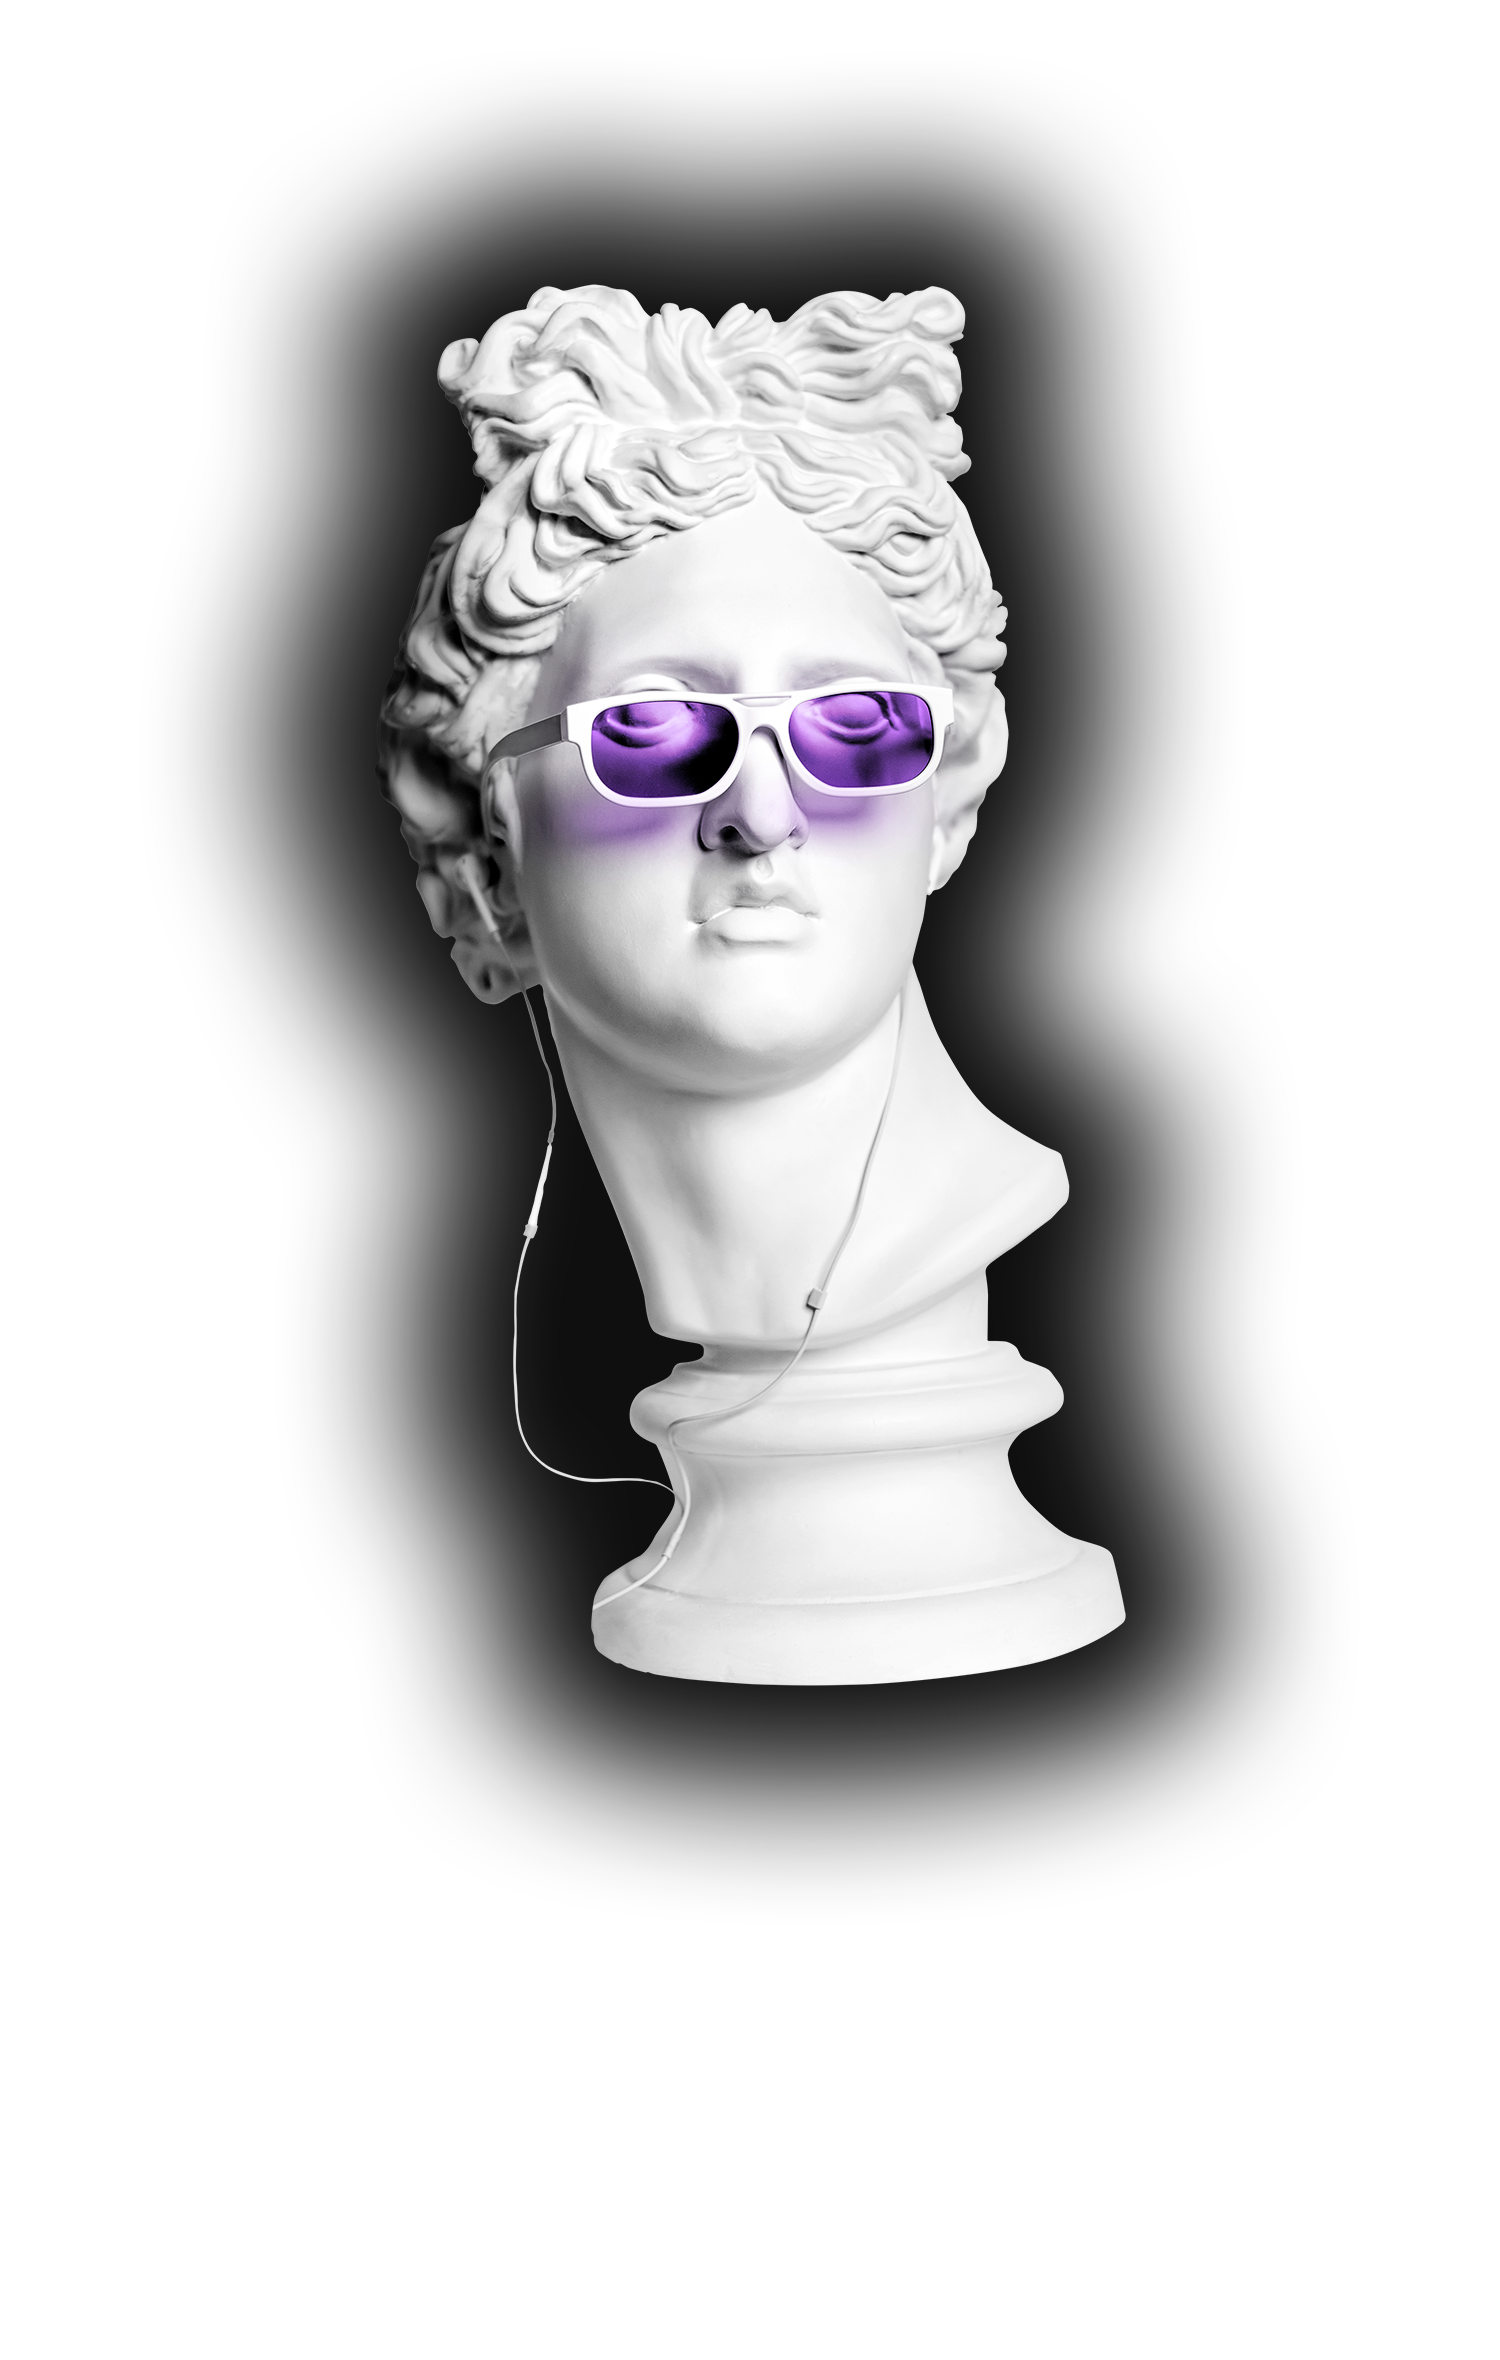
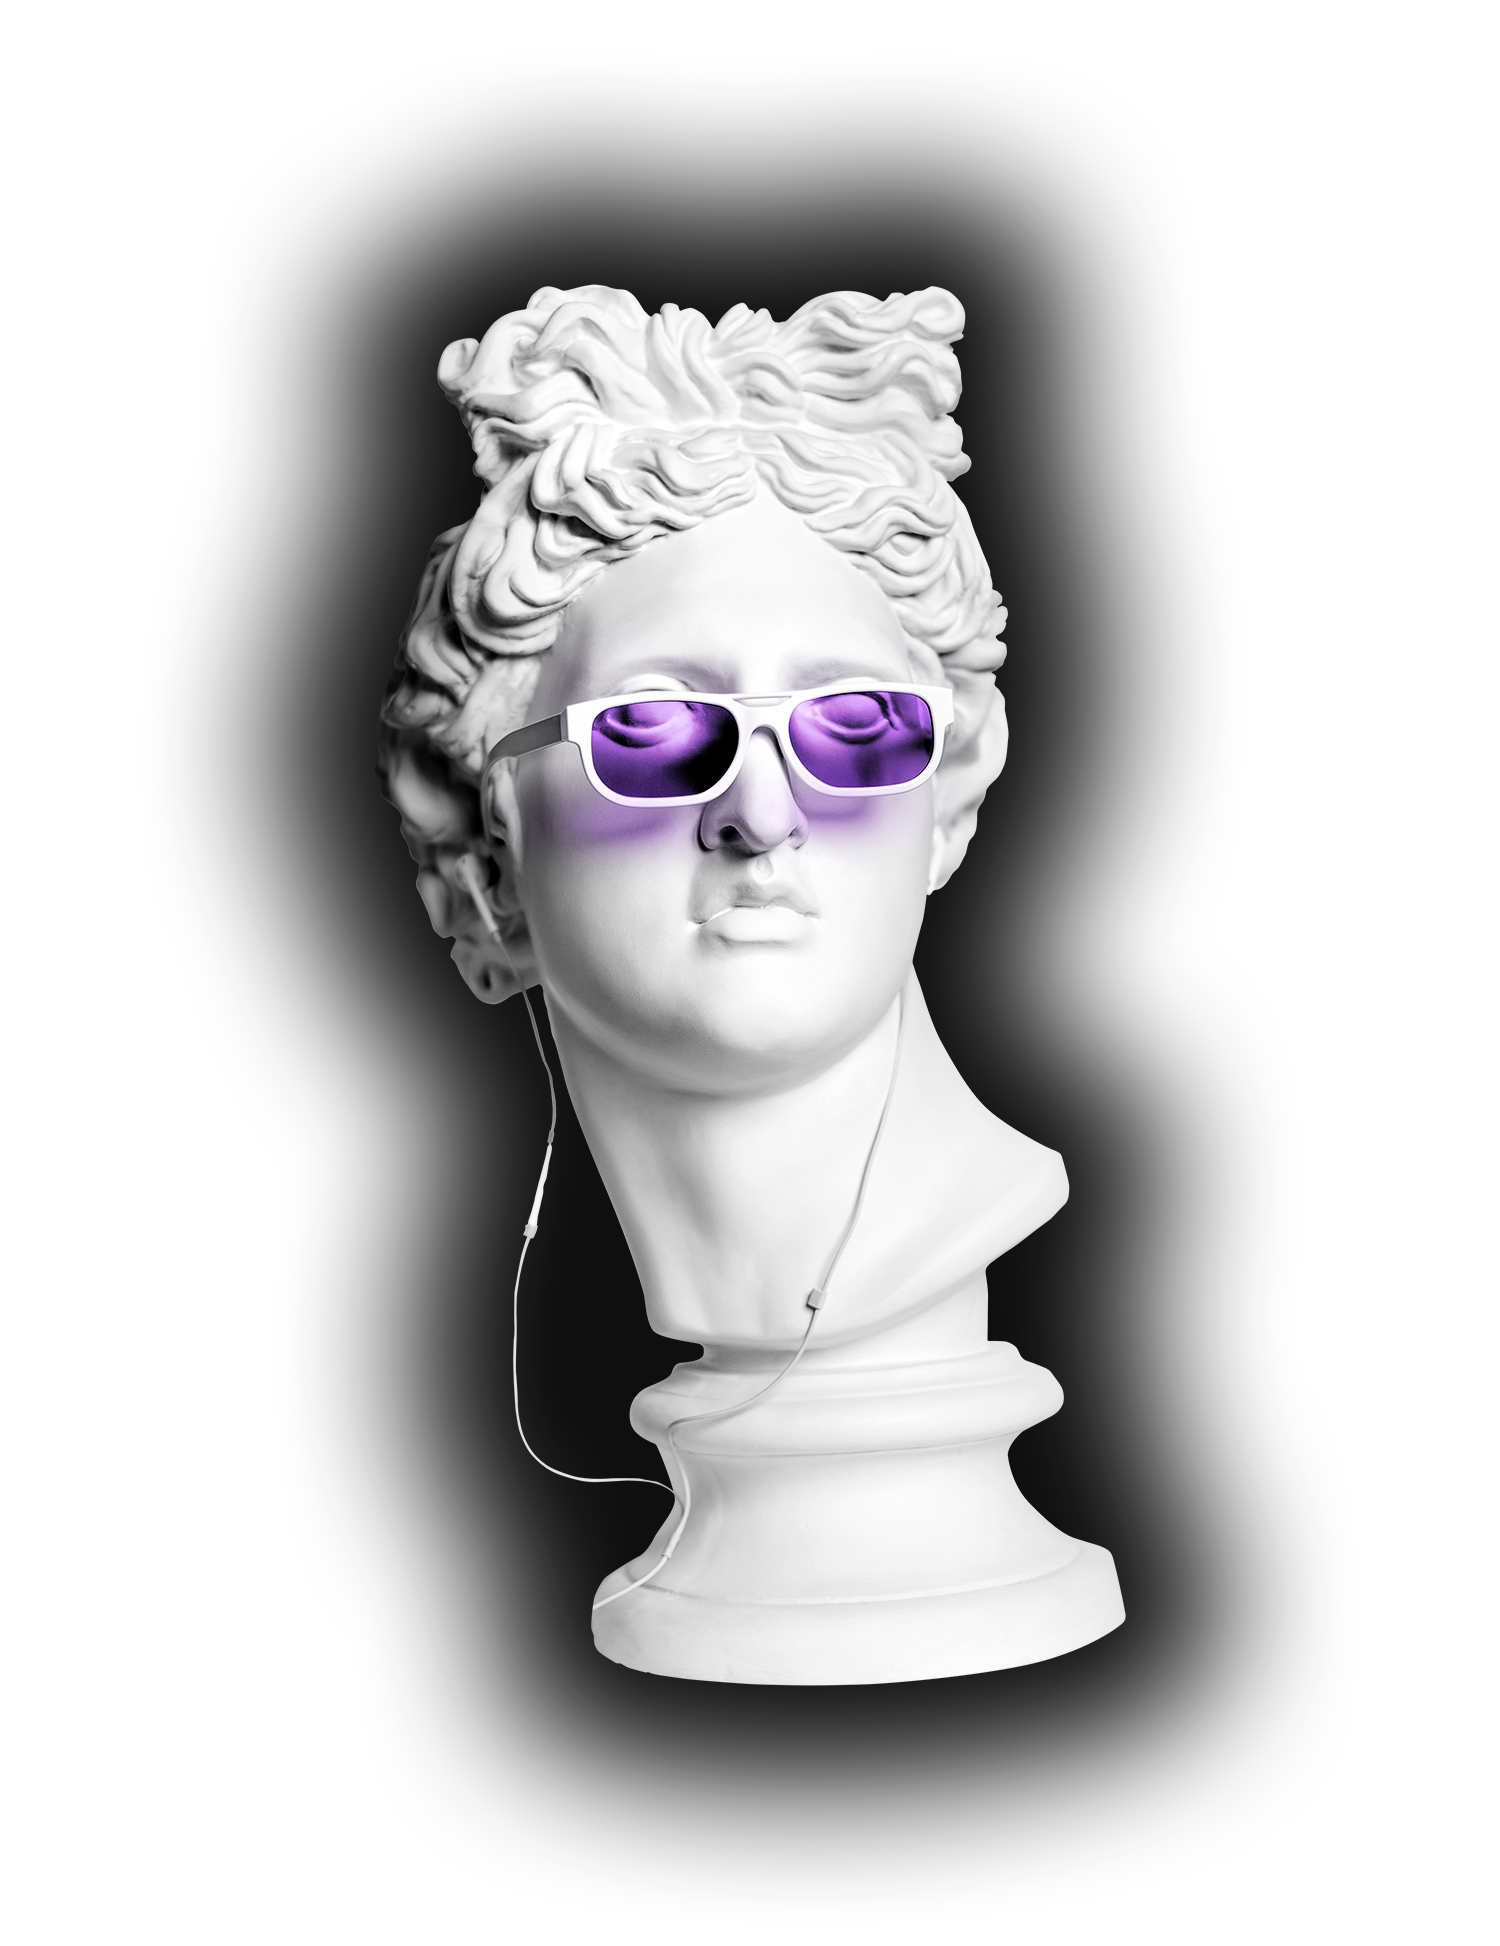
ㄴㅁㅇㄴㅁㅇㄴㅇ

diff --git a/1차프로젝트/03.구현소스/index.html b/1차프로젝트/03.구현소스/index.html
@@ -51,7 +51,7 @@
         <!-- 메인이미지 -->
         <div class="main-img-part">
           <section class="main-tit-img">
-            <img src="./img/object_item - 복사본.png" alt="메인 이미지" />
+            <img src="./img/object_item.png" alt="메인 이미지" />
           </section>
         </div>
         

diff --git a/1차프로젝트/03.구현소스/css/main.css b/1차프로젝트/03.구현소스/css/main.css
@@ -209,7 +209,7 @@
   opacity: 1;
 
   text-align: center;
-  width: 800px;
+  width: max(40vw,300px);
 
   animation: img-ani 2.5s linear 0.8s infinite alternate;
 
